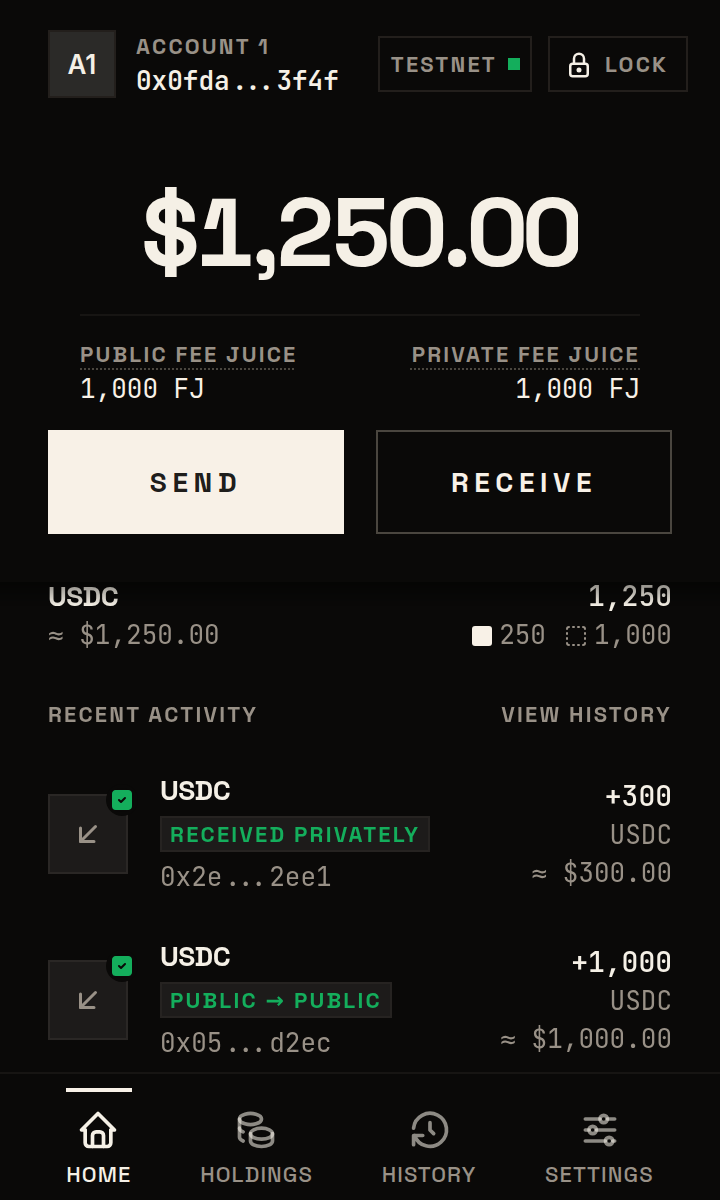
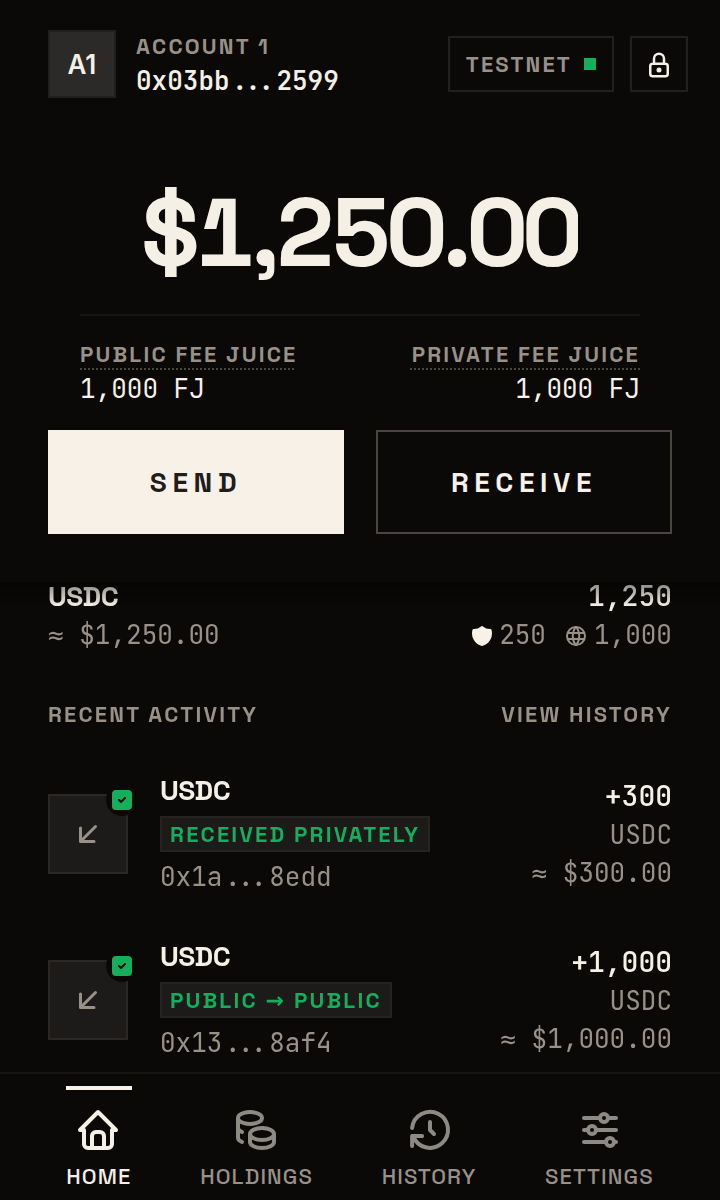
chore(store): re-render the listing images from the current build (#1377)
## What changed and why

The store listing's images were last regenerated on 2026-10-19 (#801).
Since then the header's chips changed (#1369: the Lock chip is its
padlock alone; the network chip has 8 px sides and a 6 px gap), and
other signed changes reached the framed screens. This re-renders the set
from `dev` at `9fba3c295`. Two steps make it:

- the five popup captures, by the opt-in `store-captures` spec (Chrome,
proverless, retry 0);
- the five 1280×800 frames and the 440×280 tile, by
`scripts/store-art.ts`.

The spec gains one staging step, at the owner's request (below). It
writes `https://playground.nulo.sh` over the permission window's origin
line just before frame 3's capture, because the test run serves the
playground on a local port. The displayed origin is staged; the request
itself runs against the local playground. The spec first checks that the
line names the run's own playground, and after the capture that the
staged text held. Nothing else in the window changes, and the name line
stays `nulo-playground`. The spec already stages the frames the same
way: it renames the test network "Testnet" and seeds a $1 quote. The
edit uses the existing `capabilities-hostname` testid, so no product
file changes.

The tile rendered byte-identical, so the diff holds ten PNGs and the
spec. No product file, prose, frame title, caption or template changes.
`store/listing.md` is untouched (its reviewer note is #1370).
[…]

diff --git a/apps/extension/tests/e2e/network/store-captures.test.ts b/apps/extension/tests/e2e/network/store-captures.test.ts
@@ -10,7 +10,9 @@
  * and Fee Juice: the harness token is never imported, and no harness transaction touches the
  * captured account. USD Coin is priced at $1 by the seeded quote, with the price host refused, so a
  * live quote cannot move the totals. The wallet arrives by phrase import, so Home shows no Get
- * started card and frames as an established user's does.
+ * started card and frames as an established user's does. The run serves the playground on a local
+ * port, so the permission frame shows it under a public-looking origin, written over the window's
+ * origin line just before that capture.
  */
 import { readFileSync } from "node:fs"
 import { resolve } from "node:path"
@@ -65,6 +67,7 @@ const PRICE_HOST = "https://api.coingecko.com"
 /** One USD Coin in base units: six decimals, as on Ethereum. */
 const USDC = 10n ** 6n
 const CONTACT = "Alice"
+const PLAYGROUND_ORIGIN = "https://playground.nulo.sh"
 
 type Chain = Awaited<ReturnType<typeof stageChain>>
 
@@ -375,10 +378,26 @@ async function frameWindow(page: Page): Promise<Page> {
 	return page
 }
 
+const ORIGIN_LINE = '[data-testid="capabilities-hostname"]'
+
+async function stagePlaygroundOrigin(window: Page, runOrigin: string): Promise<void> {
+	await window.waitForSelector(ORIGIN_LINE, { visible: true, timeout: 15_000 })
+	const shown = await window.evaluate((sel) => document.querySelector(sel)?.textContent?.trim(), ORIGIN_LINE)
+	expect(shown, "the origin the window shows").toBe(runOrigin)
+	await window.evaluate(
+		(sel, origin) => {
+			const line = document.querySelector(sel)
+			if (line) line.textContent = origin
+		},
+		ORIGIN_LINE,
+		PLAYGROUND_ORIGIN,
+	)
+}
+
 /**
- * The playground's permission request, as the window first shows it. A transfer's approval card is
- * not framed: the standard token names its nonce `_nonce`, so the card falls back to the ABI decode
- * and shows the amount in base units.
+ * The playground's permission request, before any scroll. A transfer's approval card is not framed:
+ * the standard token names its nonce `_nonce`, so the card falls back to the ABI decode and shows
+ * the amount in base units.
  */
 async function captureApproval(ctx: ExtensionContext, chain: Chain): Promise<void> {
 	const playground = await openPlayground(ctx)
@@ -389,7 +408,10 @@ async function captureApproval(ctx: ExtensionContext, chain: Chain): Promise<voi
 	await grantCapBundle(ctx, playground, "transaction", async (accountIds, window) => {
 		if (!accountIds.includes(chain.account))
 			throw new Error(`the permission window did not offer ${chain.account}: ${accountIds.join(", ")}`)
+		await stagePlaygroundOrigin(window, new URL(playground.url()).origin)
 		await capture(await frameWindow(window), "approve")
+		const framed = await window.evaluate((sel) => document.querySelector(sel)?.textContent, ORIGIN_LINE)
+		expect(framed, "the framed origin line").toBe(PLAYGROUND_ORIGIN)
 		return [chain.account]
 	})
 }

diff --git a/implementations-plan/archive/store-images-1/plan.md b/implementations-plan/archive/store-images-1/plan.md
@@ -1,0 +1,161 @@
+---
+plan: store-images-1
+tier: light (the orchestrator's spawn: one Codex audit round-trip and the Opus Plan leg)
+driver: claude-code
+claude_model: opus
+codex_model: sol
+code_review: off
+explainer: off
+eli5_mode: skipped (orchestrator-owned)
+base: origin/dev at 9fba3c295
+trunk: dev
+status: closed (one PR, #1377, carries the set and the close-out; awaiting the merge)
+issues: "#1376 (filed in 1.0; dedupe: #364 and #627 closed, none open)"
+post_implementation_hardening: not scheduled
+---
+
+## Outcome
+
+- Date: 2026-10-30.
+- Status: completed. One arc, #1377, with this close-out as its final commits, awaiting the merge.
+- Shipped: closes #1376.
+  - The five captures and the five 1280×800 frames, re-rendered from the current build: #1369's header, #812's marks, #1221's strict-mode line, #806's origin line and #1027's icons. The tile rendered byte-identical, so it is not in the diff.
+  - The owner's round: the spec writes `https://playground.nulo.sh` over the permission window's origin line just before frame 3's capture, after checking it named the run's own playground origin, and checks it held (D10). No product file changed.
+  - The owner signed the set (OA-1), quoted in D5.
+- Upload, the owner's, by hand: Chrome Web Store → Store listing → Graphic assets: the screenshots 1280×800 in order 1..5 and the small promo tile 440×280 (unchanged). Firefox Add-ons → Edit product page → Images: the same five screenshots. No image carries a launch date or a network endpoint.
+- Dispositions: byte-identical capture re-runs are impossible by design (the random phrase, F4, D2); `store-art.ts` reproduces every frame from fixed captures (1.3). #945, #986 and #1334 show in no frame (F3). D8 is superseded by D10. The frame's rounded device outline and #1370's `listing.md` note stay out (D7). A `waitForSelector` handle that came back null on the permission window gave way to the suite's evaluate-by-selector pattern; its cause was not traced, so nothing is promoted (lessons/phase-1.md).
+- Lessons: none promoted. Nothing here generalizes past this spec, and `lessons.md` holds 8192 of its 8192 bytes.
+- Known limits: none.
+- Open items: none.
+- Seeds retired: the `/goal` and `/loop` seeds below. Do not run them.
+
+## Goal
+
+Re-render the store listing's eleven images from the current build: the five popup captures (`E/store/captures/*.png`), the five framed screenshots (`E/store/screenshot-{1..5}-1280x800.png`) and the promo tile (`E/store/promo-440x280.png`). `E` is `apps/extension`. Generated PNGs and, only if the staging no longer holds, the capture spec. No product file, prose, frame copy or template changes. One arc, one PR. Recon with its search trails: [recon.md](recon.md). Over the light target (150 lines) by the Outcome and the owner's round (D10).
+
+## Outcome & Quality Bar
+
+- **For whom:** a person who meets Nulo on the Chrome Web Store or Firefox Add-ons, and the owner, who uploads the set by hand.
+- **Excellent:** (1) every frame is the real current UI with honest staging, and no frame shows a node URL, a recovery word, Manage networks, or a clipped chip; (2) the PR shows each frame before and after, so the owner can sign the set without running anything.
+- **Good enough:** byte-identical re-runs are not required where the staging is random by design (D2); the report names each such difference and its cause.
+
+## Assumptions
+
+**Facts**
+- F1. The captures and frames date from #801 (2026-10-19, `fba0360e6`); the tile's template is unchanged since the starting commit (`git log -- E/store/templates/tile.html`), and #801 rendered it byte-identical.
+- F2. Four of the five captures show the header (Home, Send, History, Lock settings); each shows the text chip "LOCK" (looked at with Read). Since #1369 the Lock chip is a padlock alone and the network chip has 8 px sides and a 6 px gap at 359 px and wider (`9fba3c295` body).
+- F3. Three changes the lane brief names show in no frame: #945 squared the logs and JSON windows, popovers, focus rings and a banner button (`f73ce69d6` body); #986's rules sit under `@media (width < 359px)` and the captures are 360 px wide (`b88c20a39` body); #1334 is on Manage networks, which no frame shows. The issue says so.
+- F4. The captured account changes on every run: `setupPreFundedAccount` draws random entropy for the phrase (`E/tests/e2e/fixtures/aztec.ts:576-578`), and the header shows the address (`0x17e8…ea6c` at `78b4b7541`, `0x0fda…3f4f` at `fba0360e6`). Tx hashes and History's day header (the capture date) also vary.
+- F5. `e2e:agent` exists only in the root `package.json` (`bash apps/extension/scripts/e2e/agent.sh`, which `cd`s into `E` and passes the file to vitest); the lane brief's "from `apps/extension`" does not hold. The e2e README's command is `STORE_CAPTURES=1 NULO_E2E_PROVERLESS=1 bun run e2e:agent tests/e2e/network/store-captures.test.ts` from the root.
+- F6. The spec's test sets `retry: 0` itself (`store-captures.test.ts`, the `test(...)` options), so the network config's `e2eRetry(2)` does not apply to it.
+- F7. `store-art.ts` renders from the captures and templates with embedded fonts; its `FRAMES` copy is the owner's and does not change.
+- F8. Since #1117 the default network is the Mainnet seed, named "Alpha" since #1369; "Testnet" and "Local Network" are still seeded (`E/src/wallet/services/network/seeds.ts:42-69`). An import lands on Alpha, the spec switches to Local Network, and its rename order respects name uniqueness (recon.md).
+- F9. A probe run at the base (recon.md § The probe run) staged every frame: exit 0 in 160 s, five captures, five changed frames, the tile byte-identical. Every frame passed the 1.2 checks by eye.
+- F10. The permission window shows the dApp's full origin since #806 (2026-10-19, after #801's capture): the approve frame reads `http://localhost:<port>`, the port drawn per run (`E/scripts/e2e/resolve-ports.ts:159`). Its account row reads "SANDBOX" (`getChainName(0)`), as in the set the owner signed for #801.
+
+**Inferences**
+- I1. Once settled, a proverless build shows the five screens as a prover-ON build does. It differs in two ways: no proofs, and faster wallet clocks (`VITE_NULO_E2E_WALLET_CLOCKS=1`, `E/scripts/e2e/agent.sh:105-123`: the incoming scan and the finality re-read every 10 s). Both change timing only. The spec waits for the fresh balances, both receipts and the confirmed send, and `settle()` waits until no skeleton, spinner, stale or refreshing mark shows. #801's signed set was proverless.
+- I2. The store-art frames and the tile are deterministic for fixed captures (embedded fonts, fixed viewport, no clock): two `store-art.ts` runs over the same captures give byte-identical PNGs. Phase 1.3 checks it.
+
+**Asks**
+- OA-1 ([OWNER-ASKS.md](OWNER-ASKS.md)): the owner signs the final set. It blocks the merge, not the arc (D5). Answered on 2026-10-30 (D5).
+
+## Architecture & Implementation
+
+- **Reuse:** the opt-in spec and `store-art.ts` as they are (recon.md, Reuse map). Nothing new is built.
+- **Flow:** `stageChain` (script side) → `stageWallet` through the UI → receipts and a send → five captures at 360×600, 2× → `store-art.ts` frames them and renders the tile.
+- **Spec fix, only on a failed staging:** the smallest edit that makes the staging match the header comment again (a selector, a name, a wait). A change to what a frame shows beyond the landed changes stops in the report (lane brief).
+- **Alternative not taken:** make the captures deterministic (a fixed phrase, a fixed clock). It would stabilise only the address; tx hashes and note randomness still move (F4). Rejected (D2).
+
+## Decision ledger
+
+- D1. One arc, one PR; a spec fix, if any, lands in its own commit before the PNG commit (lane brief).
+- D2. No determinism work. The second run's per-file comparison is reported: which captures differ and which run-specific value causes it (address, hashes, capture date). Byte identity is required only of `store-art.ts` re-rendering the same captures (I2).
+- D3. Proverless run, the documented command (F5, I1).
+- D4. No new assertion for the chip fit. `appearance.test.ts:194-212` pins "Alpha" whole at 360 px; "TESTNET" (53.1 px of text in an 83.1 px chip, #1369's measure) is checked by eye on the 2× capture in 1.2. An assertion here would copy that inline check into an opt-in spec for one screen.
+- D5. Sign-off is OA-1 in [OWNER-ASKS.md](OWNER-ASKS.md): the owner signs the final set at merge, by the PR's before/after table and the six SHA-256 sums it lists. Earlier PRs' sign-offs cover the changes inside the frames, not this public set (CLAUDE.md § UI changes, as Codex argued). The arc does not depend on the answer: the owner can sign only a set that exists, so the arc captures, reviews and opens the PR, and merge waits for the owner's words, quoted in the PR. **Owner sign-off**, 2026-10-30, given before the re-render, conditionally: "#1377: yes, signed if frame 3 reads that way and the rest changes only in those things." The orchestrator checked both conditions on head c3ff40f38: frame 3 reads `https://playground.nulo.sh`, and frames 1, 2, 4 and 5 differ from the previous set only in the test address and the tx-hash slices.
+- D6. The issue keeps the lane brief's title, `store: the listing images predate the chip, corner and network-switch changes`: it is true as dated (the images are older than all three). Its body says that #945, #986 and #1334 show in no frame (F3).
+- D8. Superseded by D10. First shipped as produced: `http://localhost:<port>`, #806's full-origin display over the run's own port. A fixed port is refused by run isolation. "SANDBOX" is unchanged from the signed set.
+- D10. Frame 3's origin line reads `https://playground.nulo.sh`. The owner, on #1377: "I don't like the "localhost:27493" is there a way we can have "playground" there or something? Even if we edit manually the html before the photo." Then: ""https://playground.nulo.sh" looks good, thanks". The spec writes that origin over the `capabilities-hostname` line just before the approve capture, as it already stages the network name and the quote. It first checks that the line names the run's own playground origin, and after the capture that the staged text held. No testid or product file changed. Nothing else in the window changes; the name line stays `nulo-playground`. From here, 1.2's check for frame 3 is that its origin line reads exactly `https://playground.nulo.sh`.
+- D9. Gates: the lane brief's list, plus `test:all` (the common gate). Smoke e2e is left out: it drives the popup, which this arc does not change, and cannot see a store PNG.
+- D7. Out of scope, unchanged: `E/store/listing.md` (its reviewer note is #1370, the owner's), the frame copy, the templates' design (the frame's rounded device outline included), icons, a Firefox capture.
+
+## Phases and gates
+
+### 1.0 File the issue ✓
+- Dedupe: `gh issue list --state all --search "store images"` and `--search "store captures"` (done at planning: #364, #627 closed; none open). File the issue with the five sections and the `ux` label. Write its number into this plan's front matter.
+
+### 1.1 Capture ✓
+- Run from the worktree root: `STORE_CAPTURES=1 NULO_E2E_PROVERLESS=1 NULO_E2E_BROWSER=chrome NODE_OPTIONS=--dns-result-order=ipv4first bun run e2e:agent tests/e2e/network/store-captures.test.ts`, polled to its end. The planning probe (F9) is this run if the base and this command are unchanged at approval.
+- On a red, read the cause. A stale selector or name: fix the spec (D1) and rerun. A host stall: one rerun after load falls (common brief).
+- Gate: exit 0; the log prints five `[store-captures] wrote store/captures/<name>.png` lines and every `scrollToFit` result is `{"scrolled":<n>}`.
+
+### 1.2 Frame and look ✓
+- Run `cd apps/extension && bun scripts/store-art.ts`.
+- Look at all eleven PNGs with Read. For each: it is its intended screen, never an import, reveal or phrase screen; no URL, host or path but the playground's own origin on the approve frame, whose port must be the run's playground port, not its node port (`[resolve-ports]` line of the log); no password or key; no Manage networks page; no clipped or cut text in the header chips; Home's header reads "TESTNET" with its dot whole; the Lock chip is a padlock alone. History's day header is the capture date, not a launch date.
+- Compare each with its committed copy (`git show 9fba3c295:<path>`) and note what changed per frame for the PR body.
+- A frame that shows more than the landed changes imply (a new cut line, a missing row): stop, keep the PNGs uncommitted, and report it as an owner ask.
+- Gate: all eleven pass the checks above, recorded per file in `lessons/phase-1.md`.
+
+### 1.3 Reproducibility ✓
+- Copy the eleven PNGs that 1.2 looked at to a scratch directory outside the repository, with their SHA-256 sums.
+- Run 1.1's command a second time. Compare each capture's SHA-256 with run 1's. All five are expected to differ (F4, F10): view each pair with Read and record the cause per file.
+- Copy run 1's five captures back, then run `bun scripts/store-art.ts`. The six rendered PNGs must hash as run 1's did (I2); this also restores the reviewed set.
+- Gate: the store-art hashes match; every capture difference is a run-specific value (the captured account's address, hash slices, date, port). Alice's address comes from the sandbox's fixed initial accounts (`E/tests/e2e/fixtures/aztec.ts:146`), so it must match across the two runs. Any other difference stops the arc and goes to the report.
+
+### 1.4 Commit and fast gates ✓
+- Gate: `bun run lint`, `bun run typecheck:all` and `bun run test:all` exit 0; `cd apps/extension && bun --bun vitest run scripts/store-listing.test.ts scripts/store-icons.test.ts --retry=0` green. The build `audit:vue` adds already ran inside each capture run. Smoke e2e is not run: no popup file changes, and the smoke suite cannot see the store PNGs (D9).
+- Commit the changed PNGs in one commit: `chore(store): re-render the listing images from the current build`. Git records only the files that changed; the PR body names any that rendered identical (likely the tile).
+
+## Security & Adversarial Considerations
+
+- **Threat model:** the images are public. The risk is disclosure, not attack: a node URL (the local node's is `http://`), a recovery phrase, a password, a local path, or an account that is not a throwaway.
+- **Disposable secrets:** each run creates a test phrase and its keys (`E/tests/e2e/fixtures/aztec.ts:576-583`) and imports them into an isolated sandbox wallet, with the e2e password. They are never committed, and no frame may show them. `stageChain` hands `words` to `importSeed`, which types them into the import page; nothing logs them (`grep -n words` over the fixture and the driver). The keys derive for the local chain only (`LOCAL_L1_CHAIN_ID`). The price host is refused, so no live quote leaves the run.
+- **Checks:** phase 1.2's per-file look. No dependency, workflow or permission changes; the 7-day age gate and frozen lockfile are untouched.
+- **Domain risks:** N/A for contracts and publishing; the upload is the owner's, by hand.
+
+## UI impact
+
+- **Store listings (both stores' graphic assets):** the five screenshots show the current header (padlock-only Lock chip, roomier network chip) and the other signed changes on the framed screens; the tile is unchanged or re-rendered identical. Before/after per frame in the PR. No popup surface changes.
+
+## Delivery
+
+- Single arc on `worktree-store-images-1` against `dev`; plain `gh pr create`, no stack. Opened as #1377. The plan's close-out is the PR's final commits, after the orchestrator's word.
+- PR title: `chore(store): re-render the listing images from the current build` (64 characters). Body: per frame, the caption and a before/after pair (blob links at full SHAs, `?raw=true`); what changed and why; the gates with outcomes; the reproducibility result; `Closes #<1.0's issue>`; the owner's upload list (below). Opened without labels; the spec is opt-in, so no e2e label is needed (no lane covers it).
+- Owner's upload list: § Outcome. Frame 3 shows the playground's public origin, staged by the spec (D10).
+
+## Post-implementation
+
+`implementations-plan/README.md` § Post-implementation standard at `9fba3c295`, with:
+- Loop once over the arc's diff (single arc): `~/.claude/skills/codex/scripts/run-codex.sh <prompt> <worktree> high read-only gpt-6.1-sol`, resumed with `resume-codex.sh`; the prompt carries the diff (the spec diff, if any, and the list of changed PNGs with their before/after notes), this plan, the adversarial ask and the standard's two rules verbatim. Three rounds at most.
+- `/code-review`: off.
+- Close-out after the orchestrator's word: merge `origin/dev`, read `index.md` and `lessons.md`; the Outcome; lessons; `STATUS.md` deleted; `git mv` into `archive/` in its own commit; `bun run check:plans`.
+- Teardown once the close-out merges: `agent-worktree done store-images-1 --merged --trunk dev`; a `/loop` checks each firing, a `/goal` arms one wait after its report.
+
+## Review verdicts
+
+Each finding was checked against the tree; detail in [lessons/phase-0.md](lessons/phase-0.md).
+
+- **Codex, round 1** (gpt-6.1-sol, high): conditional approve; 5 findings, all accepted. The disclosure check names every URL, host and path, since the local node is `http://` (1.2); the security section says the run creates disposable secrets (§ Security); I1 names the faster wallet clocks; the set's sign-off is OA-1, blocking merge only (D5); `test:all` and an explicit `NULO_E2E_BROWSER=chrome` join the gates (D9, 1.1). On D6 it held the assigned title; the plan keeps it (D6). Looks fine: D2, D3, D4, D8, the 1.3 restore.
+- **Opus Plan leg:** conditional approve; 6 findings, all accepted. Alice's address is fixed per Aztec version, so 1.3 expects it equal across runs (1.3, recon.md); § Asks lists OA-1; OA-1 names History's capture date and the TESTNET staging; "no recovery word" is undecidable (BIP-39 holds "account", "home", "lock") and becomes "no import, reveal or phrase screen" (1.2); the log claim cites the trace (§ Security); the approve port is checked against the node port (1.2). Looks fine: I1, I2 (the probe's hashes), D2-D4, D8, the 1.3 restore, no PNG metadata chunk.
+- **Codex, final pass** (the same session, resumed): approve, no remaining material finding. It notes that the final PNG look, the reproducibility gate and OA-1 stay required.
+
+### Arc 1 review
+
+- **Codex round 1** (gpt-6.1-sol, high): conditional approve; 2 findings, both accepted. `test:all` ran at the head before 1.4 counts (exit 0); the 1.3 log gains its hashes, commands and run B's prefixes. It found only IHDR/IDAT/IEND chunks and the right sizes in all eleven PNGs.
+- **Opus review** (general-purpose), beside round 1: conditional approve; 2 findings, both accepted. #1027's repainted icons show in every frame and join the per-frame list (recon.md, OA-1, the PR body); the same `test:all` gap.
+- **Codex round 2** (resumed): approve, no remaining material finding; it re-checked the eleven hashes against HEAD.
+
+### Owner round (frame 3's origin, D10)
+
+- **Codex** (gpt-6.1-sol, high, a fresh session over `570e26e9d..HEAD`): approve, no correctness or security finding. Two comment findings, both accepted: the helper's comment restated its name and checks (deleted), and "as the window first shows it" no longer held once the origin line is staged (now "before any scroll"). It re-checked the pixel bands and the PNG chunks. On disclosure, it found the header comment's statement enough, plus one PR line saying the shown origin is staged.
+
+## Seeds
+
+```
+/goal Every phase in implementations-plan/store-images-1/plan.md marked ✓, each backed by its gate reported passing in the transcript; LESSONS_FILE printed per phase; the Codex loop converged (a resumed pass reporting no new material finding, quoted); the PR on GitHub, opened after the loop; `bun run lint` and `bun run typecheck:all` exit 0 in the transcript.
+```
+
+```
+/loop 15m Drive implementations-plan/store-images-1 forward per its plan.md and the README's Post-implementation standard: reality check from plan.md and lessons/ (the archived path present on dev means merged: tear down and stop); next pending step; fast gates after each edit; Codex consult instead of waiting; five failures on one step: reassess with Codex; never merge.
+```

diff --git a/implementations-plan/archive/store-images-1/lessons/phase-1.md b/implementations-plan/archive/store-images-1/lessons/phase-1.md
@@ -1,0 +1,89 @@
+# Phase 1: arc 1 log
+
+## 1.0
+
+- Dedupe again (`gh issue list --state all --search "store images"`, `"listing images predate"`): #364 and #627 closed, none open. Filed #1376 (`ux`) with the lane brief's title.
+
+## 1.1 (run A)
+
+- `STORE_CAPTURES=1 NULO_E2E_PROVERLESS=1 NULO_E2E_BROWSER=chrome NODE_OPTIONS=--dns-result-order=ipv4first bun run e2e:agent tests/e2e/network/store-captures.test.ts`: exit 0; test 109.3 s, run 163.4 s; longest silence 24.9 s. Ports: node `:11038`, playground `:27493`. `revealCutActivityRow` 58 px, `clearAmountLine` 46 px; five captures written. No spec change needed.
+
+## 1.2
+
+`bun scripts/store-art.ts` over run A's captures: five frames changed; the tile rendered byte-identical to the committed one (`05381c4b…`), so git records no change for it. Each file looked at with Read:
+
+| File | Intended screen | URL, host, path | Password, key | Manage networks | Header chips |
+|---|---|---|---|---|---|
+| captures/home.png | Home | none | none | no | TESTNET whole, dot inside; padlock alone |
+| captures/send.png | Send, filled | none | none | no | same |
+| captures/history.png | History | none | none | no | same |
+| captures/security.png | Settings → Lock | none | none | no | same |
+| captures/approve.png | permission window | `http://localhost:27493`: the run's playground port, not the node's `:11038` | none | no | no header (window) |
+| screenshot-1..5 | the five above, framed with their unchanged titles and captions | as above | none | no | as above |
+| promo-440x280.png | tile, unchanged | none | none | no | n/a |
+
+History's day header reads OCT 30, 2026, the capture date. Alice's address `0x3029df…2aca3d08` equals the probe's.
+
+## 1.3
+
+- Run B, the same command: exit 0; test 114.8 s, run 178.7 s; longest silence 27.5 s; ports node `:20585`, playground `:13951`; the same two scroll fits (58 px, 46 px).
+- All five captures differ from run A's by SHA-256 (run B, first 12 hex: home `fda956a80c46`, send `e446ae450531`, history `145fe44a559f`, security `fef5d84bdbf0`, approve `b647995ed973`). Looked at with Read, each differs by run-specific values only: the account address (`0x17dd…ec33` in A, `0x26bc…0b0d` in B), Home's two and History's three tx-hash slices, the approve frame's port (`27493`, `13951`). Alice's address, the layout, the scroll fits and the date match.
+- Pixel bands, run A against the probe (run B's files were overwritten by the restore below; the probe is a third run at the same base): every capture differs only at y70-89 x168-338 (the header address), Home at two and History at three hash-slice rows (x192-330), approve at y118-137 x418-477 (the port digits) and y414-433 (the account row's address). `Bun.Image` 1.4.2 has no raw decode; a stdlib zlib PNG decoder in Python does the pixel diff.
+- Restore: `cp <run-a>/captures/*.png apps/extension/store/captures/`, then `bun scripts/store-art.ts`, then `sha256sum` of the eleven against run A's list: `diff` empty. The committed set is run A:
+
+| File | SHA-256 |
+|---|---|
[11 lines of base64/hex data omitted]
+
+## 1.4
+
+- `bun run lint` exit 0; `bun run typecheck:all` exit 0; the two store tests at retry 0, 12 passed; `bun run test:all` exit 0 at `e3e0ba9cd` (extension 952 files, 16,420 tests passed).
+- `c776eb1fc chore(store): re-render the listing images from the current build`: ten PNGs; the tile is not in it (byte-identical).
+
+## Review loop
+
+- Codex round 1 (gpt-6.1-sol, high, read-only, the diff `9fba3c295..e3e0ba9cd`): conditional approve, 2 findings, both accepted. 1.4 was ticked before `test:all` ran at the head (run, exit 0, recorded above); the 1.3 log lacked its hashes and commands (added above). Codex also parsed all eleven PNGs: sizes right, valid CRCs, only IHDR/IDAT/IEND, nothing after IEND.
+- Opus review (general-purpose, beside round 1): conditional approve, 2 findings, both accepted. Its pixel diff of each committed capture against the new one found #1027's repainted icons in every frame, which recon.md and the PR's list left out (checked: Security's back arrow at y182-185 x73-102); the same `test:all` gap. The PNG commit's body predates the finding; the PR body carries the full list.
+- Codex round 2 (resumed): approve; it matched the eleven recorded hashes against HEAD.
+
+## Final-head gates
+
+- `bun run lint`, `bun run typecheck:all`, `bun run test:all` (16,420 extension tests passed), the two store tests at retry 0 (12 passed): all exit 0. The capture spec, run C, the same command: exit 0 in 160.3 s; its PNGs were discarded (`git checkout -- apps/extension/store`) and the eleven committed files re-hashed equal to run A.
+
+## Owner round: frame 3's origin (plan D10)
+
+- The spec writes `https://playground.nulo.sh` over the `capabilities-hostname` line (the testid already existed, `src/popup/windows/capabilities/index.vue:381`), after checking it reads the run's playground origin.
+- First attempt: the handle `window.waitForSelector(...)` returned was `null` on the permission window. The run failed with "the permission window has no origin line" (test 113.2 s), and no PNG was committed from it. No spec in the suite uses that handle; `waitForSelector` then `evaluate` by selector, the suite's pattern, works. Cause not traced.
+- Run 2 (the committed set): exit 0, test 110.0 s, run 160.0 s, ports node `:18448`, playground `:13608`. All eleven looked at with Read: frame 3 reads `https://playground.nulo.sh`, the name line `nulo-playground`; no node address, phrase or Manage networks page; TESTNET whole. Pixel bands against the previous set: home, send, history and security only at the header address (y70-89) and hash-slice rows; approve at y115-142 (the origin line) and y414-433 (the account row). The tile is byte-identical.
+- Run 3 (stability) and run 4 (final code, after the comment-only fixes): exit 0, test 111.2 s and 116.4 s, run 167.1 s and 169.7 s. Each one's approve differs from the committed one only at the account row: the staged line is pixel-identical. Their PNGs were discarded and the committed set re-hashed intact.
+- The `[aztec-node] Error: Address already in use` line in every run is the CLI's own anvil bind, which the runner announces as expected.
+- Gates at the final code: `bun run lint`, `bun run typecheck:all` exit 0; the store tests at retry 0, 12 passed; `bun run check:plans` 0 findings.
+- Codex (fresh session, high): approve; two comment fixes applied (plan § Owner round).
+
+| File | SHA-256 (the committed set after this round) |
+|---|---|
[11 lines of base64/hex data omitted]
+
+## Close-out
+
+- The owner signed the set on 2026-10-30, conditionally; the orchestrator checked both conditions on head c3ff40f38 (plan D5). Trunk at `9ce6bb0bd`, already merged; `index.md` and `lessons.md` unchanged since. No lesson promoted, no known limit, no open item.

diff --git a/implementations-plan/archive/store-images-1/recon.md b/implementations-plan/archive/store-images-1/recon.md
@@ -1,0 +1,52 @@
+# store-images-1: recon
+
+Base `origin/dev` at `9fba3c295`. One read-only explorer (sonnet) plus the planner's own reads and one probe run of the capture spec. `E` is `apps/extension`. `apps/extension/src/wallet/constants/network-endpoints.ts` was not opened; every grep excluded it.
+
+## Reuse map
+
+| Capability | Existing code | Verdict |
+|---|---|---|
+| Stage a wallet and capture five popup screens | `E/tests/e2e/network/store-captures.test.ts` (opt-in, Chrome only) | reuse as is: the probe staged every frame (below) |
+| Frame captures into 1280×800 and render the tile | `E/scripts/store-art.ts`, `E/store/templates/{frame,tile}.html` | reuse as is |
+| Run the network suite in isolation | root `e2e:agent` → `E/scripts/e2e/agent.sh` (cds into `E`, rebuilds, owns its ports) | reuse as is |
+| Check that a chip's name is not cut | inline in `E/tests/e2e/appearance.test.ts:194-212` (pins "Alpha" at 360 px); nothing exported | not reused: the frames are checked by eye at 2× (plan D4) |
+| Compare two capture runs | none: no `pixelmatch`, `pngjs`, `looks-same`, `odiff` in `bun.lock` or any `package.json`; `sharp` only under `miniflare` | build nothing: `sha256sum` per file, then a look at each differing pair (plan D2) |
+| Other capture tooling | `E/tests/e2e/fixtures/shots.ts` (`shotSend`, `NULO_E2E_SHOT_DIR`), `E/tests/e2e/helpers/stale-network-capture.ts` | not relevant: they shoot other screens for PRs, not the listing |
+
+## The spec against the tree
+
+- Every helper and data-testid the spec uses exists with compatible behaviour (fixtures under `E/tests/e2e/fixtures/` and `E/tests/e2e/helpers/import-drivers.ts`). #1334's Switch button leaves `network-row` on the row's stretched link (`SettingItem.vue`, `controls` form), so `openNetworkDetail` still opens the detail page.
+- Seeds (`E/src/wallet/services/network/seeds.ts:42-69`): "Testnet" (testnet), "Local Network" (local), "Alpha" (mainnet, primary). A fresh import lands on Alpha (`useProfileBootstrap.ts:179-192`); `switchToLocalNetwork` switches through the chip and Manage networks. The rename order ("Testnet" → "Aztec Testnet", then "Local Network" → "Testnet") respects name uniqueness (`network/service.ts:598-611`). A fresh profile meets no arrival (`seed-offers.ts:75`).
+- An import hides Get started and the backup banner (`E/src/utils/get-started.ts:141`).
+- Header (`E/src/components/Header.vue:229-239`, CSS :390-465): `network-button` with `network-name` and `network-status-dot`; 8 px sides and a 6 px gap at 359 px and wider; `header-lock` holds the padlock only.
+
+## Run-to-run variation (why two runs are never byte-equal)
+
+- The phrase comes from random entropy (`E/tests/e2e/fixtures/aztec.ts:576-578`); the header and the permission row show the derived address.
+- Every activity row shows a slice of its tx hash (`TransactionIncomingCard.vue:56-58`, `TransactionCard.vue:117-119`).
+- History's day header is the capture date (`TransactionsList.vue:31`).
+- The permission window shows the playground's full origin, scheme, host and port (`useDappOrigin.ts:16-18`, since #806), and the port is drawn per run (`E/scripts/e2e/resolve-ports.ts:159`).
+- The avatar is the account's initials, not an identicon; fee amounts are below the fold or round.
+
+## The probe run (2026-10-30, at `9fba3c295`)
+
+`STORE_CAPTURES=1 NULO_E2E_PROVERLESS=1 bun run e2e:agent tests/e2e/network/store-captures.test.ts` from the root: exit 0, the test 109.5 s, the run 159.8 s; `revealCutActivityRow` scrolled 58 px, `clearAmountLine` 46 px; five captures written. Then `bun scripts/store-art.ts`: five frames changed, the tile byte-identical to the committed one.
+
+What each capture shows against the committed one (looked at with Read):
+
+| Capture | Changed by landed work | Run-specific |
+|---|---|---|
+| home | Lock chip a padlock alone, network chip wider (#1369); the holding's privacy marks are a shield and a globe (#812); icons painted once on whole pixels, the bottom bar's at 24 px (#1027) | address, two hash slices |
+| send | the same header; the strip's marks are shields (#812); the back arrow repainted (#1027) | address (Alice's moved with the sandbox's initial accounts in the 6.0.0 bump, #1107; fixed per version, `fixtures/aztec.ts:146`) |
+| history | the same header; the bottom bar and row arrows repainted (#1027) | address, hash slices, "OCT 30, 2026" |
+| security | the same header; strict mode reads "asks you to unlock more often on this device" (#1221); the back arrow repainted (#1027) | address |
+| approve | the origin reads `http://localhost:<port>` (#806, full origin); the app-grid and eye glyphs repainted (#1027) | address, port |
+
+Checks on all five: each its intended screen (no import, reveal or phrase screen), no `https://`, no Manage networks page; "TESTNET" whole with its dot inside the chip. The approve frame's port 29575 is the run's playground port; its node was on another port (`[resolve-ports]` line). The PNGs carry no metadata chunk (IHDR, IDAT and IEND only).
+
+## Open work and collisions
+
+- `gh issue list --state all --search "store images"` and `"screenshots store"`: #364 and #627 closed (earlier regenerations), none open. `known-limit` search "store captures": none.
+- #1370 (open, owner-decision) asks to change `E/store/listing.md`'s reviewer note; out of this lane by the lane brief.
+- The spec writes in place over the tracked PNGs; two runs in one worktree would race on them (never run two).
+- The permission row's chain label reads "SANDBOX" (`AccountSelectRow.vue:75`, `getChainName(0)`), as in the set the owner signed on 2026-10-19 (#801).

diff --git a/implementations-plan/archive/store-images-1/lessons/phase-0.md b/implementations-plan/archive/store-images-1/lessons/phase-0.md
@@ -1,0 +1,19 @@
+# Phase 0: planning log
+
+## Recon
+
+- One explorer (sonnet), read-only, over eight capabilities: the spec's helpers and testids, the seeds and rename order, the header chip and its measures, run-to-run variation, PNG compare tooling, other capture tools, the runner, and what could leak into a frame. Findings in [recon.md](../recon.md). It flagged two things the plan did not yet hold: the approve frame's "SANDBOX" label (unchanged from the signed set) and the missing `@requires-proverless` marker (the documented command passes `NULO_E2E_PROVERLESS=1` anyway).
+- Lane-brief claims checked against the tree: #945, #986 and #1334 show in no frame (plan F3); `e2e:agent` runs from the root, not `apps/extension` (F5). The header claim (#1369) holds.
+
+## Probe run (2026-10-30, base `9fba3c295`)
+
+- `STORE_CAPTURES=1 NULO_E2E_PROVERLESS=1 NODE_OPTIONS=--dns-result-order=ipv4first bun run e2e:agent tests/e2e/network/store-captures.test.ts`: exit 0, test 109.5 s, run 159.8 s, longest silence 25.4 s. `revealCutActivityRow` 58 px, `clearAmountLine` 46 px.
+- `bun scripts/store-art.ts`: five frames changed, the tile byte-identical to the committed file.
+- Looked at all ten changed PNGs and the tile with Read. Each its intended screen (no import, reveal or phrase screen), no `https://`, no Manage networks page; TESTNET whole with its dot inside the chip; the Lock chip a padlock alone. The approve frame reads `http://localhost:29575` (#806's full origin, the run's port).
+
+## Panel
+
+- Codex round 1 (gpt-6.1-sol, high, read-only): conditional approve, 5 findings, all accepted after checking each against the tree (`agent.sh:105-123` for the wallet clocks; the local seed's `http://` URL in the run log). Dispositions in plan.md § Review verdicts.
+- Opus Plan leg: conditional approve, 6 findings, all accepted after checking `fixtures/aztec.ts:146` (Alice from the sandbox's initial accounts) and the run log's `[resolve-ports]` line (node `:15469`, playground `:29575`).
+- Gates run at planning, at base `9fba3c295`: `bun run lint` exit 0; `bun run typecheck:all` exit 0; `bun run test:all` exit 0 (extension 952 files, 16,420 tests passed); `scripts/store-listing.test.ts` and `scripts/store-icons.test.ts` at retry 0, 12 passed.
+- Codex final pass (resumed session): approve, no remaining material finding.

diff --git a/implementations-plan/archive/store-images-1/OWNER-ASKS.md b/implementations-plan/archive/store-images-1/OWNER-ASKS.md
@@ -1,0 +1,17 @@
+# store-images-1: owner asks
+
+## OA-1: sign the new store image set (answered 2026-10-30)
+
+- **Surface:** the Chrome Web Store and Firefox Add-ons listings' graphic assets: the five 1280×800 screenshots and the 440×280 promo tile.
+- **Why it is yours:** CLAUDE.md § UI changes. The frames show only changes each signed in its own PR, under your unchanged titles, captions and templates, but the public set itself needs your words.
+- **Options:**
+  - A. Sign the set as produced. Each frame shows the current header (the Lock chip a padlock alone, a roomier TESTNET chip) and the icons as #1027 paints them (the bottom bar's at 24 px). Frame 3, the permission window, reads `https://playground.nulo.sh` (your pick, below; the old set read `localhost`); it still reads SANDBOX on the account row, as in the set you signed on 2026-10-19. Frame 5, History, reads the capture day ("OCT 30, 2026" in the probe) where the old set read Oct 18. Every frame reads TESTNET, the renamed test network, as before; a fresh install opens on Alpha.
+  - B. Name the frames to re-capture, and what each should show instead.
+- **Recommendation:** A. The PR's before/after table and its SHA-256 list are what you sign.
+- **What ships now:** the arc captures, looks at every frame, commits the set and opens the PR. Merge waits for your words, quoted in the PR body.
+
+### The owner's answers (#1377)
+
+"I don't like the "localhost:27493" is there a way we can have "playground" there or something? Even if we edit manually the html before the photo." Then: ""https://playground.nulo.sh" looks good, thanks". Frame 3 now reads `https://playground.nulo.sh` (plan D10).
+
+The set, 2026-10-30, signed before the re-render, conditionally: "#1377: yes, signed if frame 3 reads that way and the rest changes only in those things." The orchestrator checked both conditions on head c3ff40f38: frame 3 reads `https://playground.nulo.sh`, and frames 1, 2, 4 and 5 differ from the previous set only in the test address and the tx-hash slices.

diff --git a/implementations-plan/archive/index.md b/implementations-plan/archive/index.md
@@ -475,3 +475,4 @@ Closed plans, one line each: `- [plan-name](plan-name/plan.md) — status — on
 - [wrap-1](wrap-1/plan.md) — completed — a long name wraps inside the restore texts (`overflow-wrap: anywhere` on the import warning, Home's reminder and Restore again's intro and failed-Retry line), SE1's 240 px check guarding it (closes #1276; open item #1365)
 - [chips-1](chips-1/plan.md) — completed — the default network is seeded as "Alpha" and the header's Lock chip is its padlock alone, the network chip taking 8 px sides at the popup's width (closes #1363; known limit #1364; open items #1370-#1372)
 - [chaos-5](chaos-5/plan.md) — completed — the profile chaos model's last browser races: a delete or a method change racing an open Unlock method page, a method change starting the account file page over, the passkey window's discovery and refusal on Firefox, two restores racing the facade lock (closes #1157; known limits #1373, #1374; open item #1375)
+- [store-images-1](store-images-1/plan.md) — completed — the store captures and listing screenshots re-rendered after the header's chips, the shield and globe marks and the repainted icons; frame 3's origin staged as the public playground's, signed by the owner (closes #1376)
